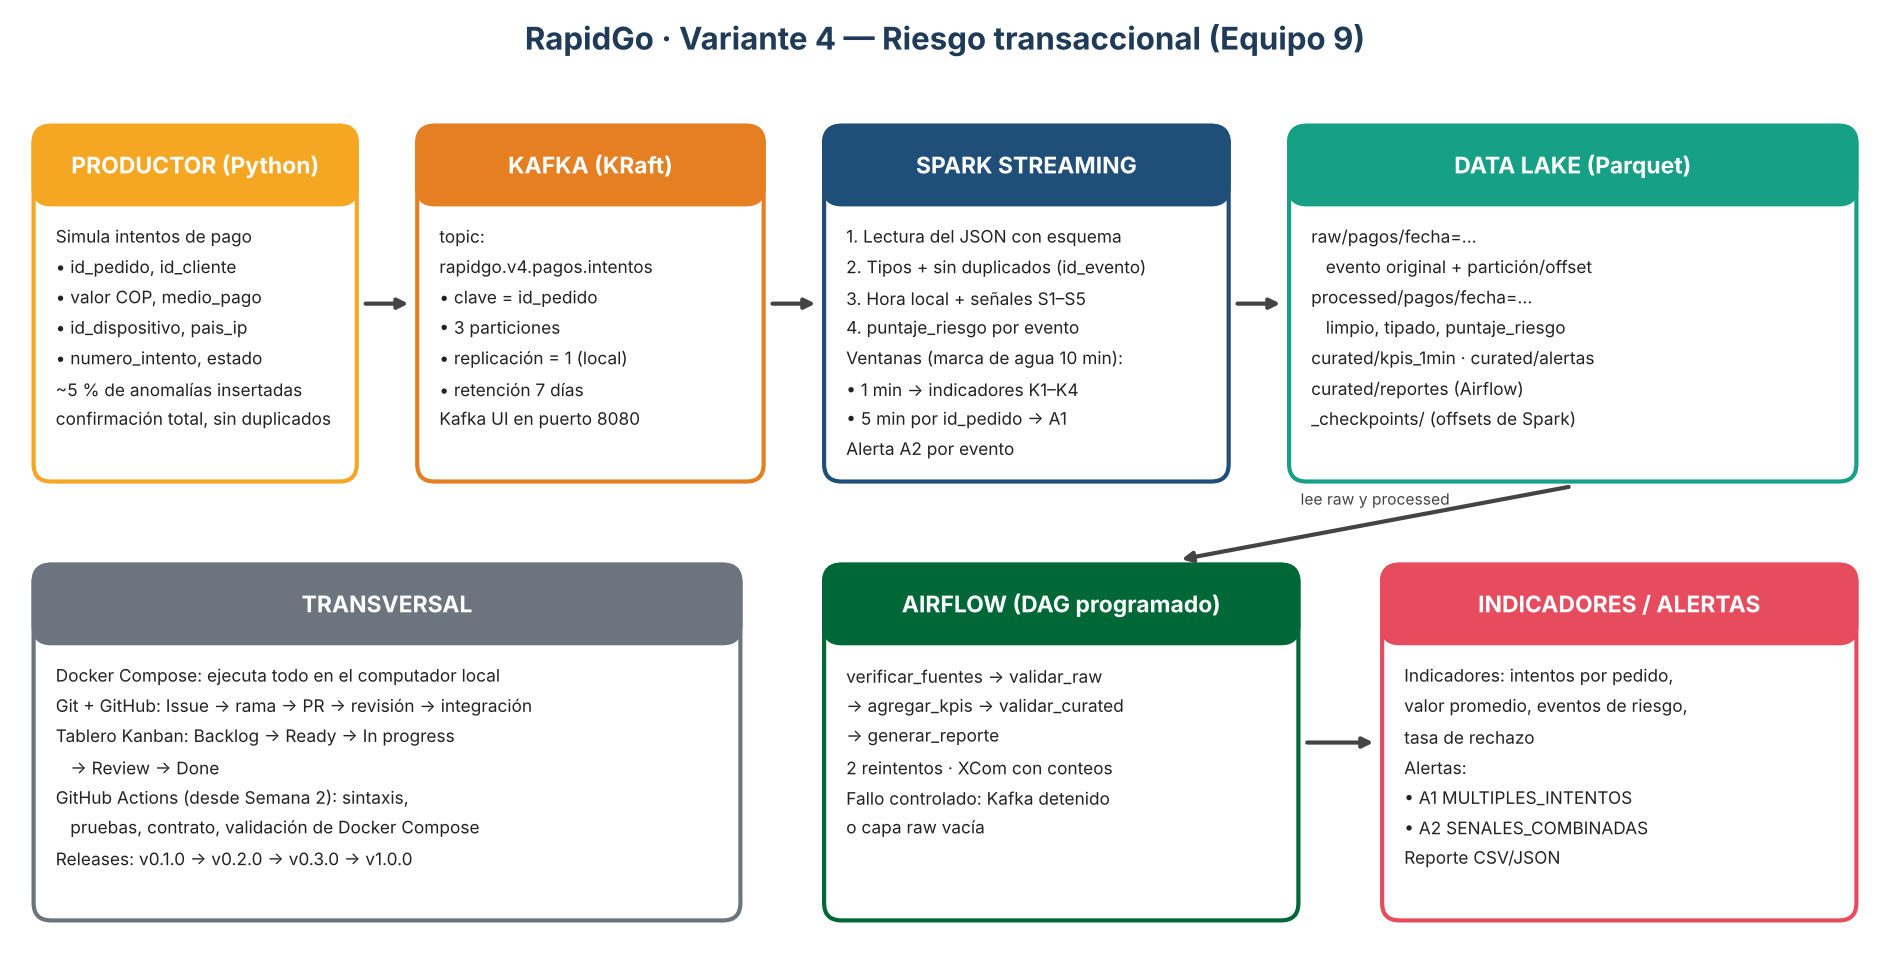
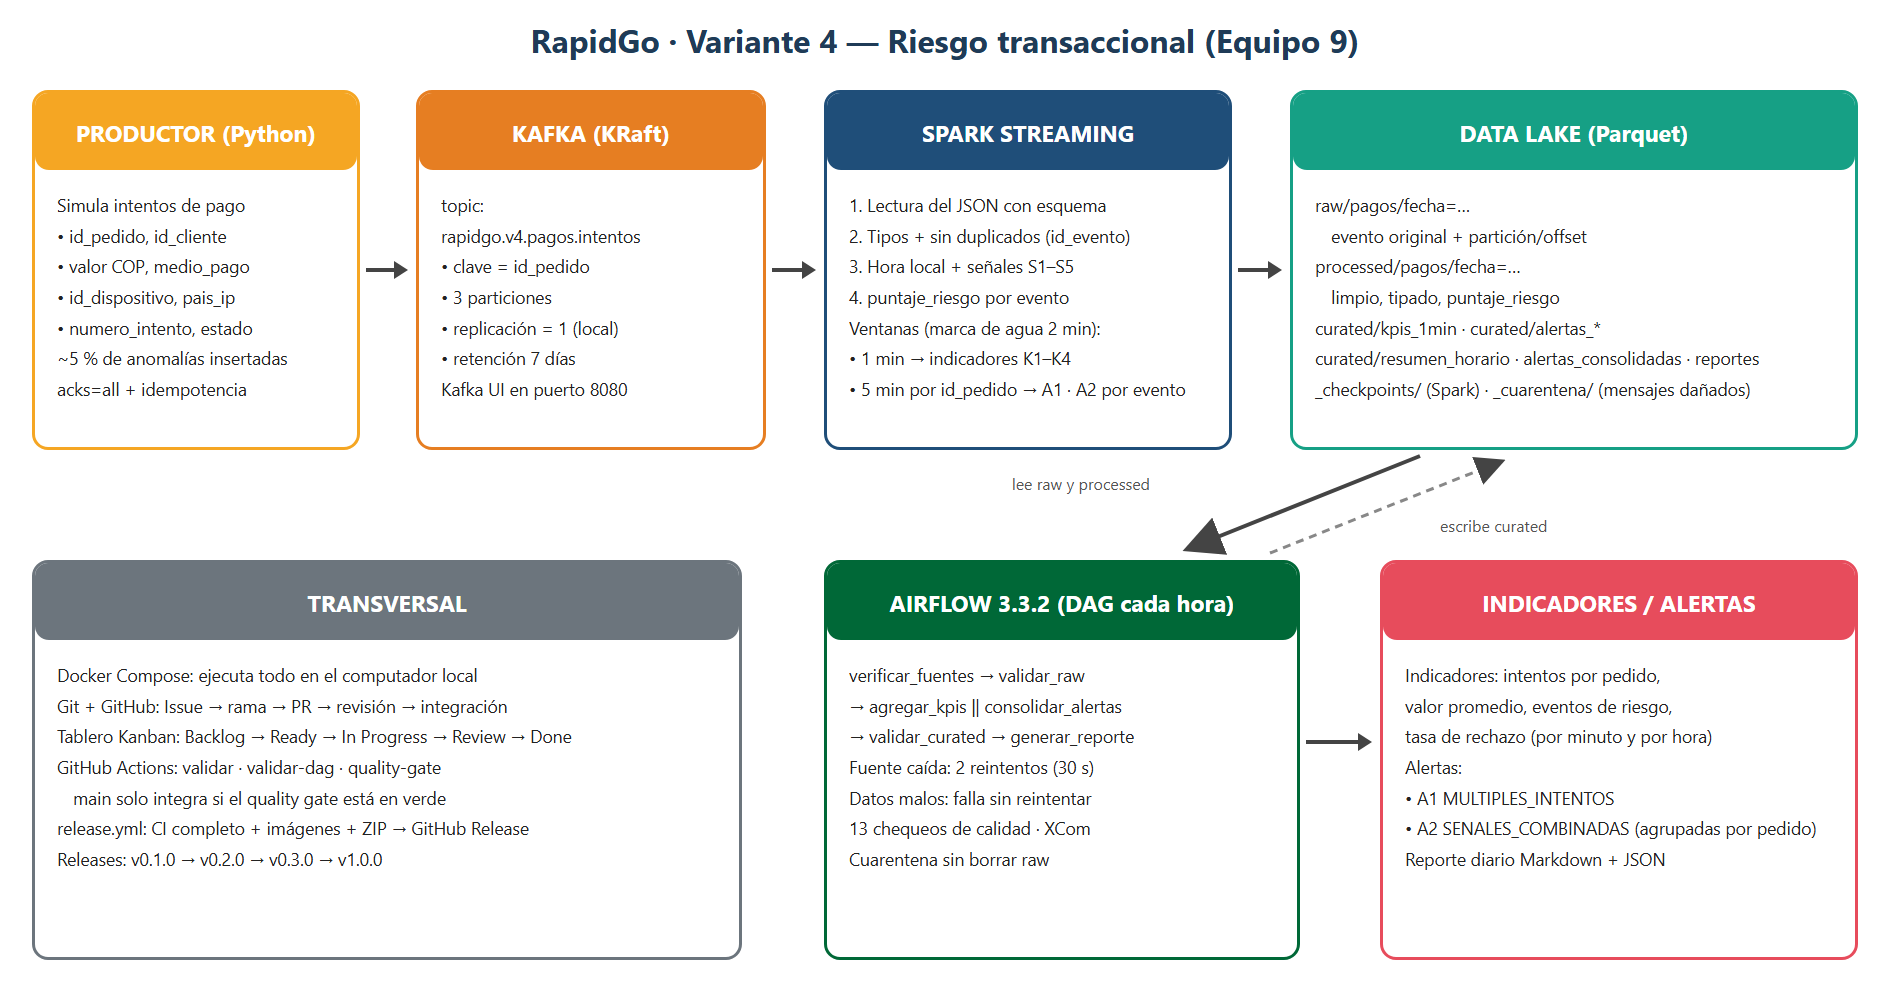
README final con los 12 puntos de la guía, diagrama actualizado y cierre del Kanban (#19)

diff --git a/README.md b/README.md
@@ -10,7 +10,7 @@ Proyecto final — Línea de Profundización I (Big Data) · Ingeniería de Sist
 | **Equipo** | 9 |
 | **Integrantes** | Esteban Rueda ([@jers120506-gif](https://github.com/jers120506-gif)) · Oscar Becerra ([@kiritosb12](https://github.com/kiritosb12)) · Karol Perez ([@Karitoperez](https://github.com/Karitoperez)) |
 | **Variante** | 4 — Riesgo transaccional |
-| **Versión actual** | `v0.3.0-orchestration` (Semana 3 · Airflow, calidad y resiliencia) |
+| **Versión actual** | `v1.0.0` (versión final · integración, quality gate y video) — [notas](docs/release-notes/v1.0.0.md) |
 | **Tablero Kanban** | [RapidGo V4 – Kanban](https://github.com/users/kiritosb12/projects/2) (20 Issues, Semanas 1 a 4) |
 
 ## Problema de negocio
@@ -31,8 +31,21 @@ con trazabilidad completa en un Data Lake por capas (raw → processed → curat
 | Kafka (modo KRaft) | Transporta los eventos en el topic `rapidgo.v4.pagos.intentos` (clave `id_pedido`, 3 particiones) |
 | Spark Structured Streaming | Lee, limpia, calcula señales y puntaje de riesgo, indicadores por ventana y alertas |
 | Data Lake (Parquet) | Capas raw → processed → curated (ver [datalake/README.md](datalake/README.md)) |
-| Airflow | Valida la calidad, agrega, genera el reporte; reintentos y fallo controlado (Semana 3) |
-| Docker, GitHub y GitHub Actions | Ejecución local, trazabilidad, integración continua y versiones |
+| Airflow | Valida la calidad de raw y curated, resume por hora, agrupa las alertas por pedido y genera el reporte; reintentos y cuarentena |
+| Docker, GitHub y GitHub Actions | Ejecución local, trazabilidad, integración continua, quality gate y versiones |
+
+## Tecnologías utilizadas
+| Tecnología | Versión | Rol en la solución |
+|---|---|---|
+| Python | 3.12 (Docker) / 3.13 (CI) | Productor, tareas de Airflow, pruebas |
+| confluent-kafka | 2.16.0 | Cliente del productor: clave `id_pedido`, `acks=all`, idempotencia |
+| Apache Kafka (KRaft) + Kafka UI | 3.8.0 | Transporte de eventos; topic con 3 particiones |
+| PySpark (Structured Streaming) | 4.1.3 | Limpieza, señales de riesgo, indicadores por ventana y alertas |
+| Parquet + pyarrow/pandas | — | Formato del Data Lake; lectura desde Airflow |
+| Apache Airflow + PostgreSQL | 3.3.2 / 16 | Orquestación: DAG de calidad, alertas consolidadas y reporte |
+| Docker Compose | — | Ejecución local de todos los servicios |
+| pytest | 8 | Pruebas de contrato, reglas, productor, Spark, orquestación y DAG |
+| GitHub (Projects, Issues, PR, Actions, Releases) | — | Trazabilidad, CI, quality gate y versiones |
 
 ## Contrato del evento
 Evento `intento_pago` — esquema en [`samples/evento_pago.schema.json`](samples/evento_pago.schema.json);
@@ -54,8 +67,9 @@ ejemplos en [`samples/evento_pago.json`](samples/evento_pago.json) (normal) y
 
 Justificación en el [ADR-001](docs/decisions/ADR-001-topic-clave-particiones.md).
 
-## Indicadores y alertas (umbrales iniciales)
-Detalle completo en [docs/kpis_y_alertas.md](docs/kpis_y_alertas.md).
+## Indicadores y alertas
+Detalle completo en [docs/kpis_y_alertas.md](docs/kpis_y_alertas.md). Spark los calcula en ventanas de 1 minuto con
+marca de agua de 2 minutos ([ADR-002](docs/decisions/ADR-002-marca-de-agua.md)); Airflow los resume por hora y agrupa las alertas por pedido.
 
 | Indicador | Definición |
 |---|---|
@@ -113,7 +127,7 @@ docker compose stop productor spark                                 # detener (e
 docker compose down                                                 # apagar todo
 ```
 
-## Airflow: control de calidad y reporte (Semana 3)
+## Airflow: control de calidad y reporte
 `docker compose up -d --build` también levanta PostgreSQL y Airflow 3.3.2 (api-server, scheduler y dag-processor).
 La primera vez tarda unos minutos en construir la imagen.
 
@@ -165,45 +179,50 @@ python -m producer.productor_pagos --modo-seco --max-eventos 5   # productor sin
 ```
 
 El flujo [`.github/workflows/ci.yml`](.github/workflows/ci.yml) se ejecuta en cada push a `main`, en cada
-Pull Request y a mano (*Actions → CI RapidGo → Run workflow*) con dos trabajos en paralelo:
+Pull Request y a mano (*Actions → CI RapidGo → Run workflow*) con tres trabajos:
 
 - **`validar`**: sintaxis, `pytest` (contrato, reglas, productor, Spark y tareas de orquestación), productor en
   modo seco y `docker compose config`.
 - **`validar-dag`**: instala Airflow 3.3.2 con sus restricciones oficiales, importa el DAG y comprueba sus
   6 tareas, dependencias y reintentos (`tests/test_dag.py`).
 
-`main` exige que los dos pasen antes de integrar. Sin Airflow instalado, `tests/test_dag.py` aparece como *skipped*.
+- **`quality-gate`**: solo pasa si `validar` y `validar-dag` pasaron. `main` lo exige para integrar.
 
-## Resultados (Semana 2)
-Ejecución local de 10 minutos a 10 eventos/s con la marca de agua de 2 minutos
-([`docs/evidencias/semana2_metricas_despues.md`](docs/evidencias/semana2_metricas_despues.md)):
+Sin Airflow instalado, `tests/test_dag.py` aparece como *skipped* en el computador; en el CI corren todas.
 
-| Medida | Valor |
-|---|---|
-| Mensajes por partición | 6038 en total: 32,5 % / 34,3 % / 33,1 % |
-| Primera ventana de indicadores escrita | a los 3,2 min (antes, con 10 min de marca de agua: 10,4 min) |
-| Demora entre el cierre de la ventana y su escritura | 140 s (antes: 620 s) |
-| Eventos de riesgo (puntaje ≥ 60) | 331 (5,52 %) |
-| Alertas por minuto | A1: 13,7 · A2: 33,1 |
-| Eventos descartados por llegar tarde | 0 |
+**Versiones:** al subir una etiqueta `vX.Y.Z`, [`release.yml`](.github/workflows/release.yml) vuelve a
+correr todo el CI, construye las imágenes de Docker, empaqueta el código y publica el GitHub Release con
+las notas de `docs/release-notes/`. Si algo falla, no se libera.
 
-Detalle y decisión en el [punto de control de la Semana 2](docs/checkpoints/semana2.md) y el
-[ADR-002](docs/decisions/ADR-002-marca-de-agua.md).
-
-## Resultados (Semana 3)
-Ejecución de referencia del DAG (`manual__evidencia_20261105T134958`, 2026-11-05): **verde en 23.7 s**.
+## Resultados
+Ejecución final desde cero (`scripts/prueba_e2e.sh --limpio`, ⟨fecha⟩, ⟨N⟩ min a 10 eventos/s):
 
 | Medida | Valor |
 |---|---|
-| Mensajes revisados en raw | 3950 (p0 1342 · p1 1264 · p2 1344), 0 huecos ni offsets repetidos |
-| Eventos en processed / pedidos | 4011 / 3268 |
-| Eventos de riesgo (K3) / tasa de rechazo (K4) | 200 (4.99 %) / 24.36 % |
-| Alertas A2 por intento → agrupadas por pedido | 200 → 90 (−55.0 %) |
-| Pedidos con alguna alerta / con A1 y A2 / ALTA | 105 / 10 / 10 |
+| Mensajes y reparto por partición | ⟨N⟩ · ⟨__ / __ / __ %⟩ · 0 huecos de offsets |
+| Duplicados eliminados por Spark | ⟨N⟩ (⟨__ %⟩) |
+| Retraso evento → processed (p95) | ⟨__ s⟩ |
+| Eventos de riesgo (K3) | ⟨N⟩ (⟨__ %⟩) |
+| Alertas A1 / A2 por intento / pedidos con A2 | ⟨N⟩ / ⟨N⟩ / ⟨N⟩ (−⟨__ %⟩ al agrupar) |
+| DAG en verde | ⟨__ s⟩, 13 chequeos de calidad |
+| Fallos controlados recuperados | 3 (Kafka, Spark, mensajes dañados) — ver [ADR-003](docs/decisions/ADR-003-orquestacion-y-recuperacion.md) |
 
-Fallos controlados: con Spark detenido `verificar_fuentes` falló en sus 3 intentos y la ejecución volvió a verde en
-13 min sin perder mensajes; con 600 mensajes dañados `validar_raw` falló sin reintentar y, tras la cuarentena,
-pasó con 0.0 % inválidos. Ver el [punto de control de la Semana 3](docs/checkpoints/semana3.md).
+Evidencias: [reporte final](docs/evidencias/semana4_reporte_final.md) · [prueba de punta a punta](docs/evidencias/semana4_prueba_e2e.txt) ·
+[métricas](docs/evidencias/semana4_metricas_final.md) · puntos de control de las semanas [1](docs/checkpoints/semana1.md),
+[2](docs/checkpoints/semana2.md) y [3](docs/checkpoints/semana3.md).
+
+## Limitaciones conocidas y trabajo futuro
+| Limitación | Trabajo futuro |
+|---|---|
+| Datos simulados por el productor (5 % de anomalías fijado por nosotros) | Probar con datos reales o anonimizados |
+| Un solo broker de Kafka (factor de replicación 1): si cae, el flujo se detiene | 3 brokers con replicación 3 |
+| Spark en modo local dentro de un contenedor | Clúster (Spark standalone o Kubernetes) |
+| A1 usa ventanas fijas de 5 min: una ráfaga que cruza el borde se parte en dos | Ventanas deslizantes o agrupación por sesión |
+| Reglas con umbrales fijos, no aprenden | Modelo de detección de anomalías entrenado con el histórico |
+| Muchos archivos Parquet pequeños (un lote cada 10 s) | Tarea de compactación en el DAG |
+| Las alertas quedan en el lago; nadie recibe un aviso | Notificación por correo o Slack desde Airflow |
+| Airflow sin usuarios (solo uso local) y revisión cada hora | Usuarios y roles; revisión más frecuente |
+| La cuarentena se registra a mano | Detección automática con aprobación del equipo |
 
 ## Plan de versiones
 | Versión | Semana | Contenido |
@@ -211,33 +230,43 @@ pasó con 0.0 % inválidos. Ver el [punto de control de la Semana 3](docs/checkp
 | `v0.1.0-foundation` | 1 | Arquitectura, contrato, indicadores y alertas, Kanban, ADR-001 |
 | `v0.2.0-streaming` | 2 | Productor + Kafka + Spark + Data Lake + integración continua |
 | `v0.3.0-orchestration` | 3 | DAG de Airflow, calidad, fallo controlado, integración continua ampliada |
-| `v1.0.0` | 4 | Control de calidad final, README final, video |
+| `v1.0.0` | 4 | Prueba de punta a punta, quality gate, release automático, README final y video |
+
+Todas las versiones: [Releases](https://github.com/kiritosb12/rapidgo-v4-riesgo-transaccional/releases).
 
 ## Documentación
 - Indicadores y alertas: [`docs/kpis_y_alertas.md`](docs/kpis_y_alertas.md)
 - Data Lake: [`datalake/README.md`](datalake/README.md)
 - Registros de decisiones de arquitectura: [ADR-001](docs/decisions/ADR-001-topic-clave-particiones.md) · [ADR-002](docs/decisions/ADR-002-marca-de-agua.md) · [ADR-003](docs/decisions/ADR-003-orquestacion-y-recuperacion.md)
+- Notas de la versión final: [`docs/release-notes/v1.0.0.md`](docs/release-notes/v1.0.0.md)
 - Puntos de control semanales: [Semana 1](docs/checkpoints/semana1.md) · [Semana 2](docs/checkpoints/semana2.md) · [Semana 3](docs/checkpoints/semana3.md)
 
-## Contribuciones (Semana 1)
+## Contribuciones
+| Integrante | Responsabilidades | Issues | PR principales | Revisiones |
+|---|---|---|---|---|
+| Esteban Rueda | Indicadores y umbrales, contrato JSON y ADR-001; productor; `ci.yml`; lectura del lago, `validar_raw`, DAG y reporte; fallo 1; prueba de punta a punta; video | #2 #3 #4 #8 #11 #13 #16 #17 #20 | #23 #24 #26 #30 #31 #38 #40 #42 ⟨#N e2e⟩ ⟨#N video⟩ | #22 #25 #27 #36 #37 #39 #41 #45 #46 |
+| Oscar Becerra | Estructura, docker-compose inicial, arquitectura y README; Spark y Data Lake; ADR-002; indicadores por hora, alertas consolidadas y `validar_curated`; fallo 2; ADR-003; quality gate y release | #1 #2 #5 #6 #7 #9 #12 #13 #16 #18 | #22 #25 #27 #28 #29 #32 #35 #36 #39 #43 #45 #46 | #23 #24 #26 #30 #31 #33 #34 #38 #40 #42 #44 ⟨#N README⟩ ⟨#N video⟩ |
+| Karol Perez | Indicadores K1–K4 y alertas en Spark; pruebas de reglas y script de métricas; Airflow y PostgreSQL en Compose; CI con el DAG; fallo 3 y cuarentena; README final | #10 #11 #14 #15 #16 #19 | #33 #34 #37 #41 #44 ⟨#N README⟩ | #32 #35 #38 #43 ⟨#N e2e⟩ ⟨#N video⟩ |
+
+Detalle por semana:
+
+### Contribuciones (Semana 1)
 | Integrante | Trabajo realizado | Pull Requests propios | Revisiones aprobadas |
 |---|---|---|---|
 | Esteban Rueda | Indicadores y reglas de alerta (#3), topic, clave, particiones y ADR-001 (#4), contrato JSON y ejemplos (#2) | #23, #24, #26 | #22, #25, #27 |
 | Oscar Becerra | Estructura del repositorio (#1), docker-compose preliminar (#6), arquitectura y README (#5), corrección del esquema y prueba del contrato (#2), punto de control y versión (#7) | #22, #25, #27, #28, #29 | #23, #24, #26 |
 | Karol Perez | — | — | — |
 
-## Contribuciones (Semana 2)
+### Contribuciones (Semana 2)
 | Integrante | Trabajo realizado | Pull Requests propios | Revisiones aprobadas |
 |---|---|---|---|
 | Esteban Rueda | Integración continua `ci.yml`, dependencias y configuración de pytest (#11), productor de intentos de pago (#8) | #30, #31 | #36 |
 | Oscar Becerra | Spark Structured Streaming raw/processed, Dockerfile y servicios de Docker Compose (#9), protección de `main` con el CI, ADR-002, punto de control y versión (#12) | #32, #35, #36 | #30, #31, #33, #34 |
 | Karol Perez | Indicadores K1–K4 y alertas A1/A2 en Spark (#10), pruebas de reglas y script de métricas (#11) | #33, #34 | #32, #35 |
 
-## Contribuciones (Semana 3)
+### Contribuciones (Semana 3)
 | Integrante | Trabajo realizado | Pull Requests propios | Revisiones aprobadas |
 |---|---|---|---|
 | Esteban Rueda | Lectura del Data Lake, `verificar_fuentes` y `validar_raw` (#13); DAG con reintentos y XCom y reporte (#13); fallo controlado 1 | #38, #40, #42 | #37, #39, #41 |
 | Oscar Becerra | Indicadores por hora, alertas consolidadas por pedido y `validar_curated` (#13); fallo controlado 2; ADR-003, punto de control y versión (#16) | #39, #43, #45 | #38, #40, #42, #44 |
 | Karol Perez | Airflow y PostgreSQL en Docker Compose (#15); CI con importación del DAG (#14); fallo controlado 3 y cuarentena | #37, #41, #44 | #38, #43 |
-
-_Se actualizará cada semana. Enlace al video final: pendiente (Semana 4)._
